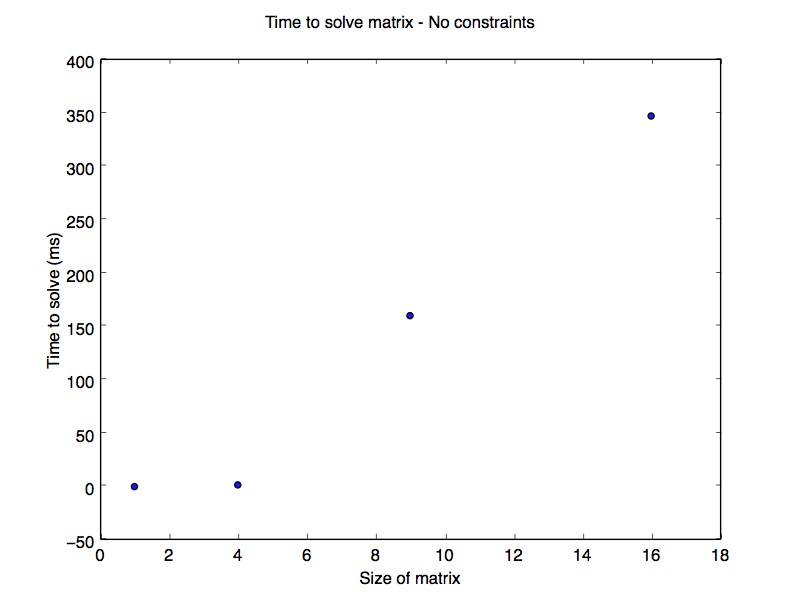
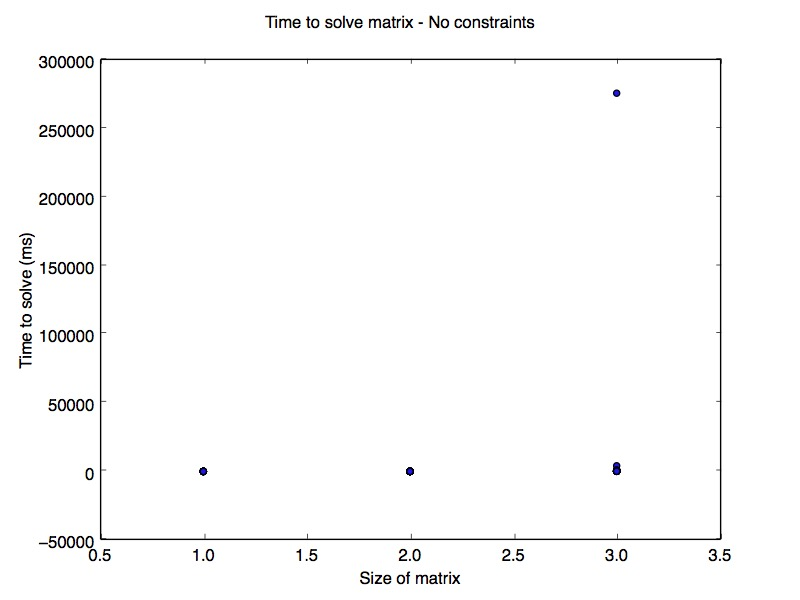
No longer use a deep copy

diff --git a/src/sudoku/backtrack.py b/src/sudoku/backtrack.py
@@ -27,45 +27,26 @@ class Sudoku:
     def solveRec(self, matrix, box):
   
         #self.percentage(matrix)
-         
-        if self.debug and self.inputlen != 0 and box > self.inputlen:
-            print "Continue?"
-            sys.stdin.readline()
-
-        if self.debug:
-            print "Trying to reject"
         
+        #The index of the box that we are now iterating values of
+        x, y = self.getIndex(box)
+ 
         #If the matrix contains an invalid square then we reject the node
         #This prunes all sub states if we find an invalid state
         if( self.reject(matrix)):
             return None
 
-        if self.debug:
-            print "Trying to accept"
-
         #If we found a solution then we should imidiatly return it and check nothing more
         if( self.accept(matrix)):
             return matrix
    
-        if self.debug:
-            print "checking boxes"
-
         #if we ran out of boxes then we didnt find a solution 
         if( box >= self.maxIndex):
             return None
 
-        if self.debug:
-            print "get index"
-
-        #The index of the box that we are now iterating values of
-        x, y = self.getIndex(box)
-
-        
-        
         #If we found a box that already has a value then it is a fixed value and we need to ignore it
         if self.isempty(matrix[x][y]) == False:
-            #print("Skipping " + str(box))
-            
+            #print("Skipping " + str(box)) 
             return self.solveRec(matrix, box+1)
 
         #We found a new valid state now we need to check all child states recursivly
@@ -74,28 +55,22 @@ class Sudoku:
         #without this step every iteration we loose the previous states because python just loves 
         #pointers so much
 
-        if self.debug:
-            print "Attempting to deepcopy"
-        node = copy.deepcopy(matrix) 
-        #node = matrix
-        if self.debug:
-            print "attempting to loop"
+        #node = copy.deepcopy(matrix) 
+        node = matrix
         
         #We will do a depth first search for every state for box values 1-9
         #Once all child nodes fail for value 1 we try all child values for 2
         for i in range(1, self.size +1):
             node[x][y] = i
  
-            if self.debug:
-                print "In box " + str(box) + " trying val " + str(i)
-                self.show(node)
-            
             #Depth first search
             result = self.solveRec(node, box+1)
     
             #if we found a result then we want to return it
             if result != None:
                 return result
+
+        node[x][y] = 0
         #but we probably didnt so if we get none then we want to backtrack and try other states
         return None
             

diff --git a/src/benchmarks.py b/src/benchmarks.py
@@ -10,16 +10,7 @@ import math
 import numpy as np
 import matplotlib.pyplot as plt
 import sudoku.backtrack as bt
-
-#Generate an empty matrix
-def generate(size):
-    res = []
-    for i in range(size):
-        inter = []
-        for j in range(size):
-            inter.append(0)
-        res.append(inter)
-    return res
+import sudoku.generator as gen
 
 #Read the matrix from the input file
 def getMatrixFromFile(file):
@@ -43,36 +34,41 @@ def main(argc, argv):
 
     fig = plt.figure()
     points = set()
-
-    
+ 
     for fakei in range(1, 5):
+        print "Running sim for size " + str(fakei)
         i = fakei*fakei
 
-        solver = bt.Sudoku()
-        #question = [[0]*i] * i
+        for hints in range(0, 15):
+            print "\t hints = " + str(hints)
+            success = 0
+            
+            total = 20
+            if fakei > 4:
+                total = 1
 
-        question = generate(i)
-
-        print("Question?", i)
-        solver.show(question)
-
-        time1 = time.time()
-        answer = solver.solve(question, i)
-        time2 = time.time()
-
-        calcTime = time2 - time1
-       
-        calcTime += calcTime*1000 
-        print("Answer")
-        
-        if answer == None:
-            print("There is no solution")
-        else:
-            solver.show(answer)
-
-        print("Solved in " + str(calcTime) +"ms")
-        print("\n")
-        points.add((i, calcTime))
+            while success < total: 
+                print "\t\tN = " + str(i) + " hints = " + str(hints) + " Success: " + str(success)+"/"+str(total)
+                solver = bt.Sudoku()
+                
+                question = gen.generate(i, hints)
+                
+                #print("Question?", i)
+                #solver.show(question)
+                
+                time1 = time.time()
+                answer = solver.solve(question, i)
+                time2 = time.time()
+                
+                calcTime = time2 - time1
+                
+                calcTime += calcTime*1000 
+                #print("Answer")
+                
+                if answer != None:
+                    #solver.show(answer)
+                    success += 1
+                    points.add((fakei, calcTime))
 
         
     x,y = zip(*points)

diff --git a/src/sudoku/__init__.py b/src/sudoku/__init__.py
@@ -1,1 +1,1 @@
-__all__ = ["backtrack"]
+__all__ = ["backtrack", "generate"]
